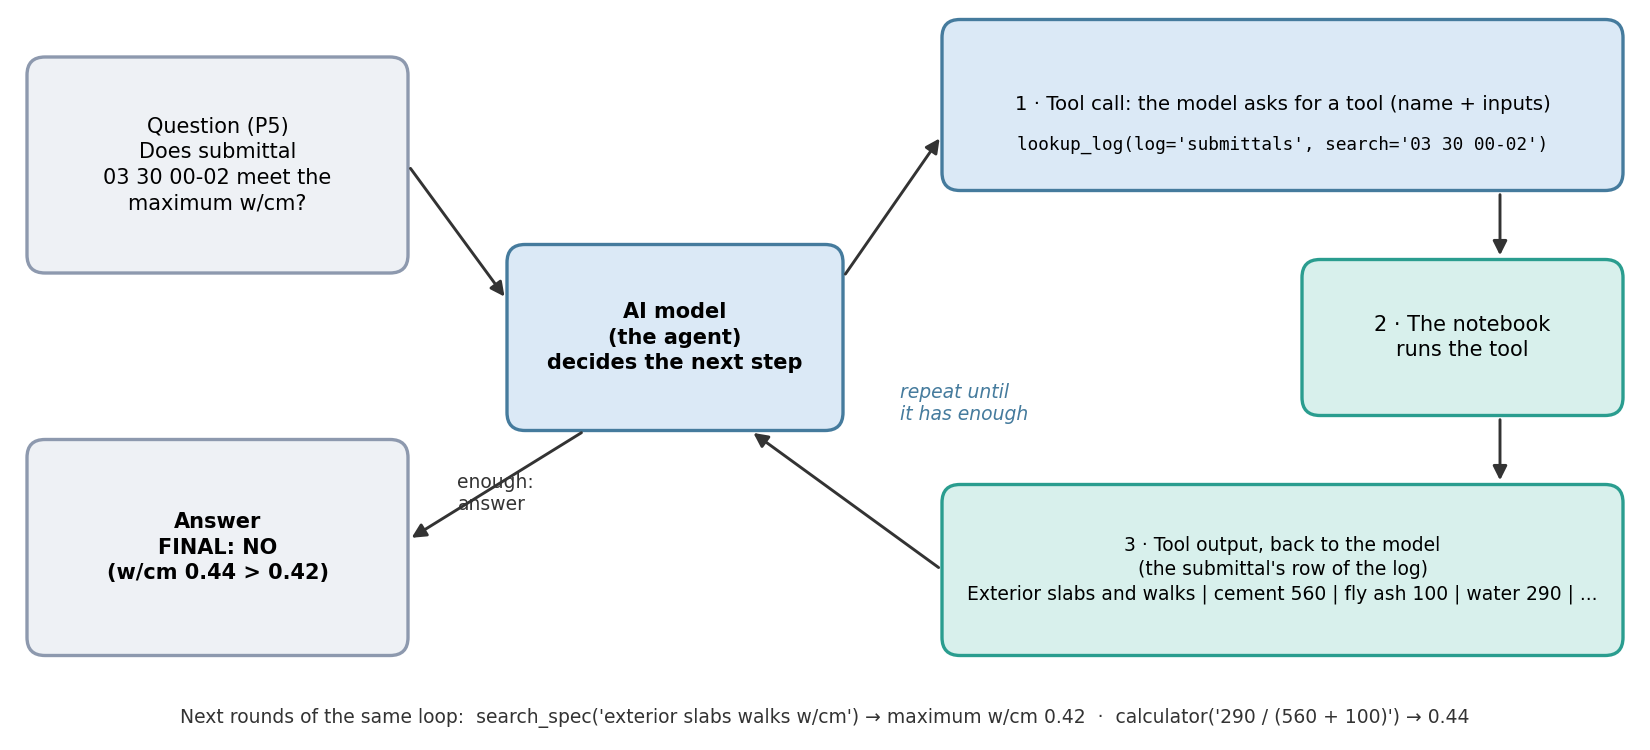
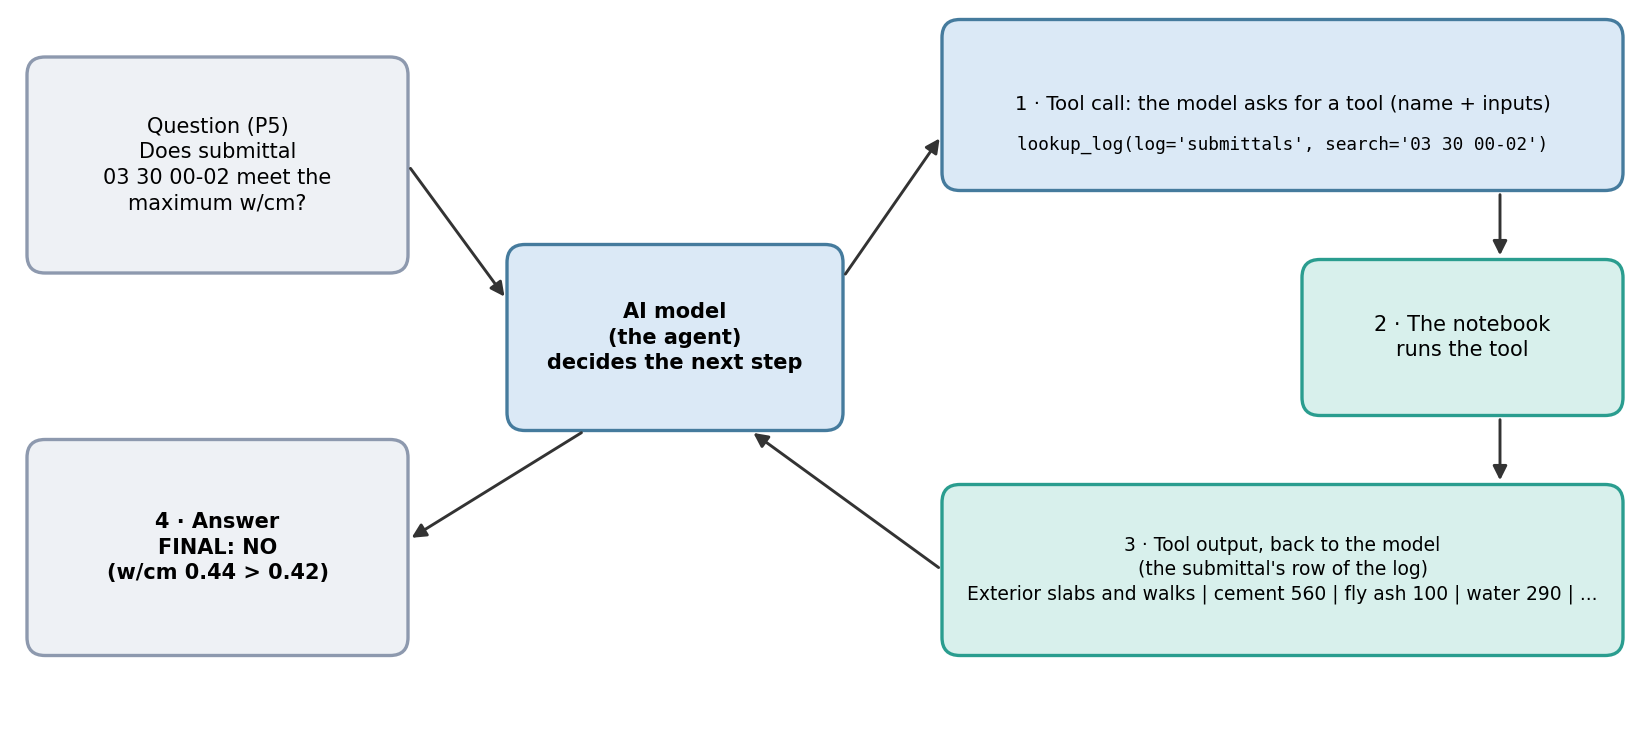
MP8 Part 2 diagram: '4 · Answer'; no 'enough: answer', 'repeat until it has enough' or 'Next rounds' captions

diff --git a/mp8_agents/build/make_figures.py b/mp8_agents/build/make_figures.py
@@ -83,17 +83,13 @@ def agent():
     ax.text(8.55, 4.0, "lookup_log(log='submittals', search='03 30 00-02')", ha="center", fontsize=8.5, family="DejaVu Sans Mono")
     box(ax, 8.7, 2.25, 10.8, 3.25, "2 · The notebook\nruns the tool", "code")
     box(ax, 6.3, 0.65, 10.8, 1.75, "3 · Tool output, back to the model\n(the submittal's row of the log)\nExterior slabs and walks | cement 560 | fly ash 100 | water 290 | ...", "code", size=9)
-    box(ax, 0.2, 0.65, 2.7, 2.05, "Answer\nFINAL: NO\n(w/cm 0.44 > 0.42)", weight="bold")
+    box(ax, 0.2, 0.65, 2.7, 2.05, "4 · Answer\nFINAL: NO\n(w/cm 0.44 > 0.42)", weight="bold")
     arrow(ax, (2.72, 3.9), (3.38, 3.0))
     arrow(ax, (5.62, 3.15), (6.28, 4.1))
     arrow(ax, (10.0, 3.73), (10.0, 3.27))
     arrow(ax, (10.0, 2.23), (10.0, 1.77))
     arrow(ax, (6.28, 1.2), (5.0, 2.13))
     arrow(ax, (3.9, 2.13), (2.72, 1.4))
-    ax.text(6.0, 2.2, "repeat until\nit has enough", fontsize=9, color="#457b9d", style="italic", ha="left", family=FONT)
-    ax.text(3.05, 1.6, "enough:\nanswer", fontsize=9, color="#333", ha="left", family=FONT)
-    ax.text(5.5, 0.18, "Next rounds of the same loop:  search_spec('exterior slabs walks w/cm') → maximum w/cm 0.42  ·  "
-            "calculator('290 / (560 + 100)') → 0.44", ha="center", fontsize=9, color="#333", family=FONT)
     save(fig, "agent.png")
 
 
